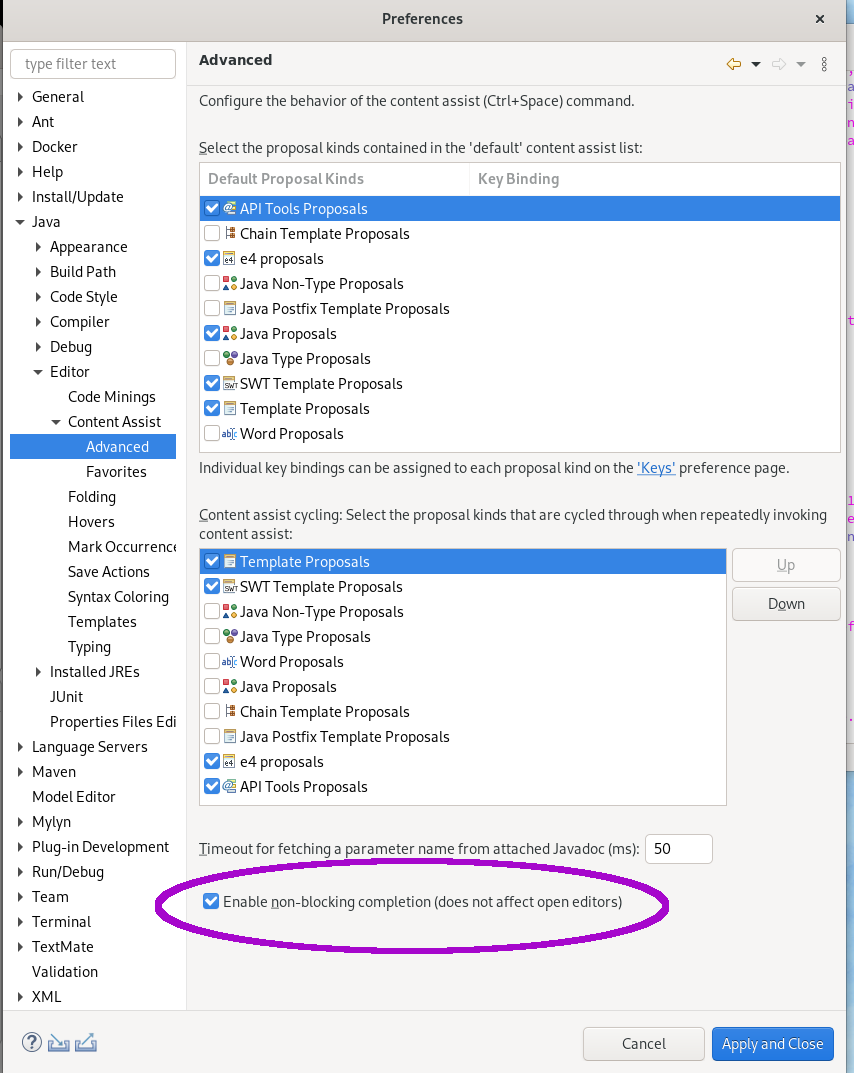
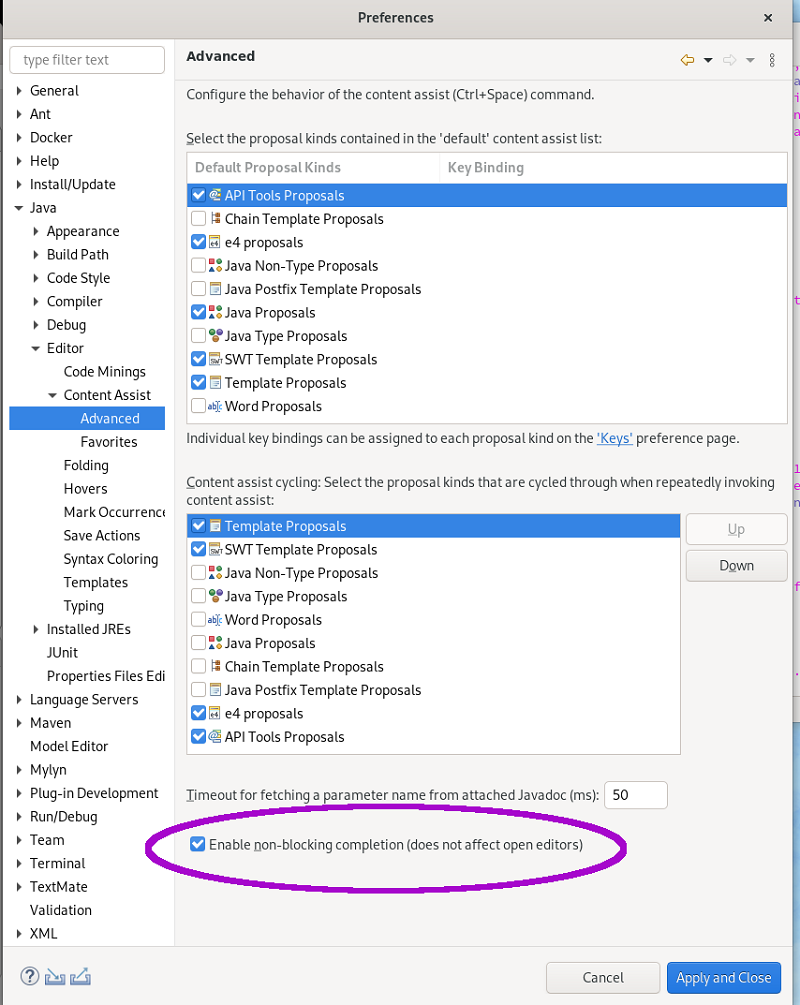
Removing unused topics

diff --git a/4.16/jdt.html b/4.16/jdt.html
@@ -24,12 +24,12 @@ ul {padding-left: 13px;}
 <h2>Java development tools</h2>
 <ul>
 	<li><a href="#Java14">Java&trade; 14 Support</a></li>
-	<li><a href="#JUnit">JUnit</a></li>
+	<!-- <li><a href="#JUnit">JUnit</a></li> -->
 	<li><a href="#JavaEditor">Java Editor</a></li>
-	<li><a href="#JavaViewsAndDialogs">Java Views and Dialogs</a></li>
+	<!-- <li><a href="#JavaViewsAndDialogs">Java Views and Dialogs</a></li> -->
 	<li><a href="#JavaFormatter">Java Formatter</a></li>
-	<li><a href="#Debug">Debug</a></li>
-	<li><a href="#JDTDev">JDT Developers</a></li>
+	<!-- <li><a href="#Debug">Debug</a></li>
+	<li><a href="#JDTDev">JDT Developers</a></li> -->
 </ul>
 
 <!-- ****************** START OF N&N TABLE ****************** -->
@@ -95,11 +95,11 @@ ul {padding-left: 13px;}
   <!-- ******************* End of Java 14 Support ************************************* -->
   
   <!-- ******************* JUnit ************************************* -->
-  <tr>
+  <!-- <tr>
     <td id="JUnit" class="section" colspan="2">
     <h2>JUnit</h2>
     </td>
-  </tr>
+  </tr> -->
   <!-- ******************* End of JUnit ************************************* -->
 
   <!-- ******************* Java Editor ************************************* -->
@@ -117,7 +117,7 @@ ul {padding-left: 13px;}
       <p>Users can restore the legacy behavior in Preferences &gt; Java &gt; Editor &gt; Content Assist &gt; Advanced by unticking the
       <em>enable non-blocking completion</em> checkbox; integrators
       can change the value of the <code>org.eclipse.jdt.ui.content_assist_noUIThread_computation</code> to <code>false</code>.</p>
-      <p><img src="images/jdtNonBlockingCompletionPref.png" alt="" width="400px"/></p>
+      <p><img src="images/jdtNonBlockingCompletionPref.png" alt=""/></p>
     </td>
   </tr>
 
@@ -144,19 +144,19 @@ ul {padding-left: 13px;}
   <!-- ******************* End of Java Editor ************************************* -->
 
   <!-- ******************* Java Views and Dialogs ************************************* -->
-  <tr>
+  <!-- <tr>
     <td id="JavaViewsAndDialogs" class="section" colspan="2">
     <h2>Java Views and Dialogs</h2>
     </td>
-  </tr>
+  </tr> -->
   <!-- ******************* End of Java Views and Dialogs ************************************* -->
 
   <!-- ******************* Java Compiler ************************************* -->
-  <tr>
+  <!-- <tr>
     <td id="JavaCompiler" class="section" colspan="2">
     <h2>Java Compiler</h2>
     </td>
-  </tr>
+  </tr> -->
 
   <!-- ******************* End of Java Compiler ************************************* -->
 
@@ -178,19 +178,19 @@ ul {padding-left: 13px;}
   <!-- ******************* End of Java Formatter ************************************* -->
   
   <!-- *********************** Debug ******************************** -->
-  <tr>
+  <!-- <tr>
     <td id="Debug" class="section" colspan="2">
     <h2>Debug</h2>
     </td>
-  </tr>
+  </tr> -->
   <!--************************ End of Debug ******************************** -->
 
   <!-- *********************** JDT Developers ******************************** -->
-  <tr>
+  <!-- <tr>
     <td id="JDTDev" class="section" colspan="2">
     <h2>JDT Developers</h2>
     </td>
-  </tr>
+  </tr> -->
   <!-- *********************** End of JDT Developers ******************************** -->
 </tbody>
 </table>

diff --git a/4.16/platform.html b/4.16/platform.html
@@ -24,7 +24,7 @@ ul {padding-left: 13px;}
 <h2>Platform and Equinox</h2>
 <ul>
     <li><a href="#ViewsAndDialogs">Views, Dialogs and Toolbar</a></li>
-    <li><a href="#Text Editors">Text Editors</a></li>
+    <!-- <li><a href="#Text Editors">Text Editors</a></li>  -->
     <li><a href="#Preferences">Preferences</a></li>
     <li><a href="#StylingThemes">Themes and Styling</a></li>
     <li><a href="#GeneralUpdates">General Updates</a></li>
@@ -58,11 +58,11 @@ ul {padding-left: 13px;}
   <!-- ******************* End of Views, Dialogs and Toolbar ************************************* -->
 
   <!-- ******************* Text Editors ************************************* -->
-  <tr>
+  <!-- <tr>
     <td id="TextEditors" class="section" colspan="2">
     <h2>Text Editors </h2>
     </td>
-  </tr>
+  </tr> -->
   <!-- ******************* End of Views, Dialogs and Toolbar ************************************* -->
 
   <!-- ****************** Preferences ************************************* -->

diff --git a/4.16/index.html b/4.16/index.html
@@ -32,7 +32,7 @@
       <li><a href="platform.php">New features in the Platform and Equinox</a></li>
       <li><a href="jdt.php">New features for Java developers</a></li>
       <li><a href="platform_isv.php">New APIs in the Platform and Equinox</a></li>
-      <li><a href="pde.php">New features for plug-in developers</a></li>
+      <!-- <li><a href="pde.php">New features for plug-in developers</a></li> -->
     </ul>
   </blockquote>
   <p>
